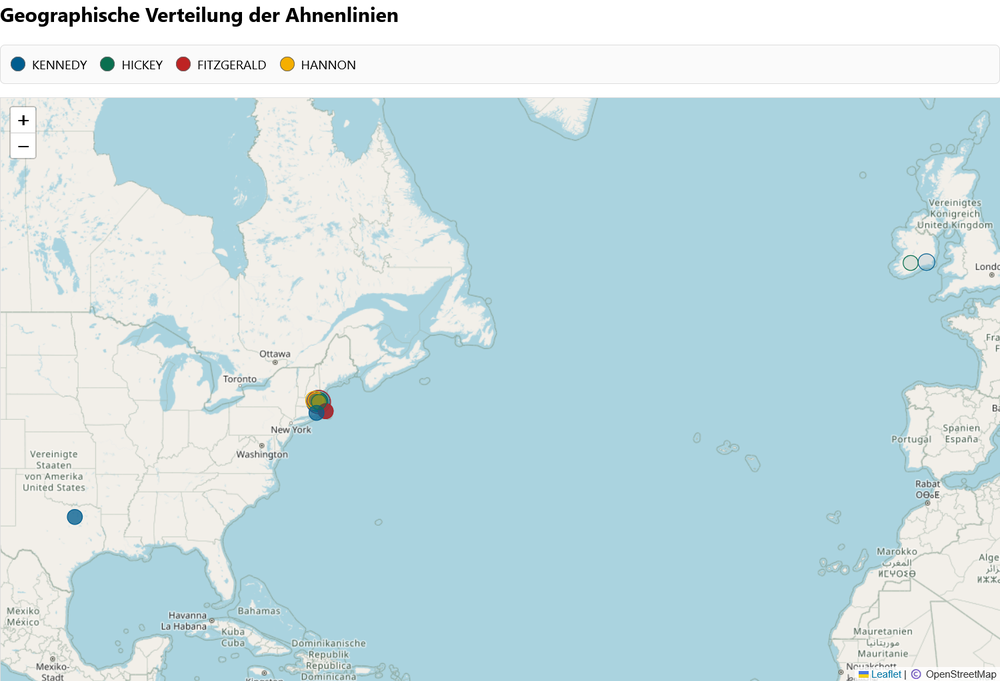
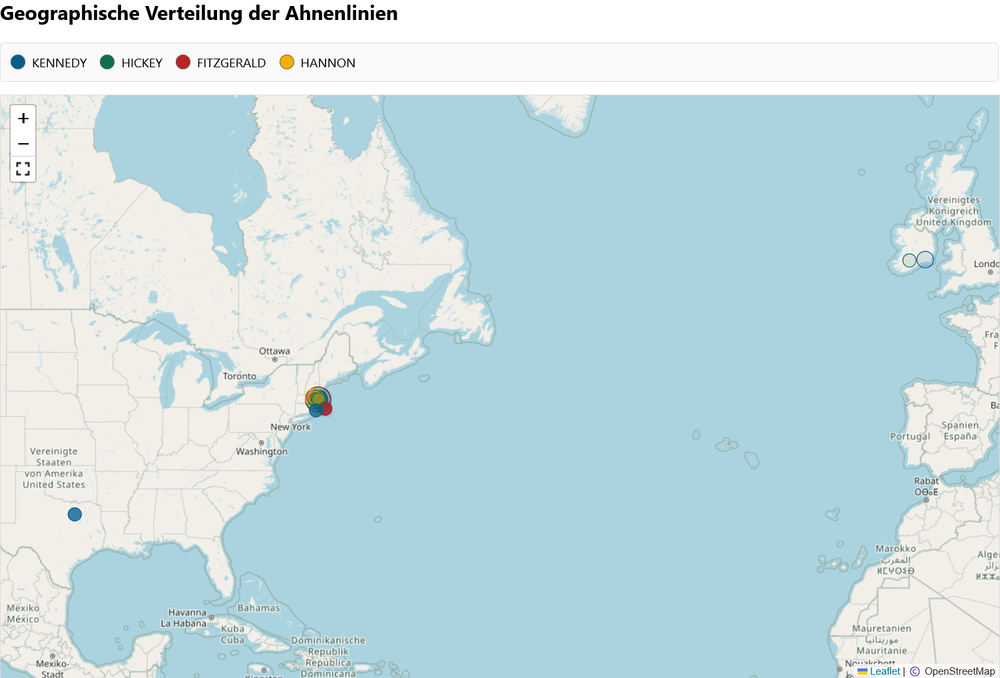
updated documentation.

diff --git a/AhnenblattPlugin/ReadmeAB.md b/AhnenblattPlugin/ReadmeAB.md
@@ -9,10 +9,10 @@ Im [Support Portal für Ahnenblatt](https://www.ahnenblattportal.de/viewtopic.ph
 
 ### Installation
 
-Die heruntergeladene Archivdatei mit der Plugin-Version muss - wie alle anderen Ahnenblatt-Plugins auch - entpackt werden und dann unter `%USERPROFILE%\Documents\Ahnenblatt\PlugIns` platziert werden. Die Ordnerstruktur sieht dann wie folgt aus:
+Die heruntergeladene Archivdatei mit der Plugin-Version muss - wie alle anderen Ahnenblatt-Plugins auch - entpackt werden und dann unter `%USERPROFILE%\Dokumente\Ahnenblatt\PlugIns` (z.B: `"C:\Benutzer\Max Mustermann\Dokumente\Ahnenblatt\PlugIns"`) platziert werden. Die Ordnerstruktur sieht dann wie folgt aus:
 
 ```
-Documents/
+Dokumente/
 ├─ Ahnenblatt/
 │  ├─ PlugIns/
 │  │  ├─ KekuleHtml/
@@ -28,6 +28,11 @@ Wenn alles an der richtigen Stelle abgelegt wurde, erscheint "KekuleHtml" in Ahn
 
 ![Plugin für Ahnenblatt](../img/ahnenblatt.png)
 
+### Koordinaten für Kartenfunktionalität
+
+Damit die [Kartenfunktionalität](../README.md#geographische-verteilung-der-ahnenlinien) funktioniert müssen Koordinaten erfasst worden sein. Dies funktioniert in Ahnenblatt über die Ortsverwaltung, die eine Suche nach dem Ortsnamen und die Übernahme der Koordinaten von einer Karte aus unterstützt:
+![Ortsverwaltung](../img/ahnenblatt_coordinates.png)
+
 ---
 
 ## 🇬🇧 Plugin for Ahnenblatt
@@ -41,7 +46,7 @@ There is a thread on the [Ahnenblatt Support Portal](https://www.ahnenblattporta
 
 ### Installation
 
-The downloaded archive file containing the plugin version must – like all other Ahnenblatt plugins – be extracted and then placed in `%USERPROFILE%\Documents\Ahnenblatt\PlugIns`. The folder structure will then look as follows:
+The downloaded archive file containing the plugin version must – like all other Ahnenblatt plugins – be extracted and then placed in `%USERPROFILE%\Documents\Ahnenblatt\PlugIns`. (e.g: `"C:\Users\Max Mustermann\Documents\Ahnenblatt\PlugIns"`) The folder structure will then look as follows:
 
 ```
 Documents/
@@ -58,3 +63,8 @@ Documents/
 If everything has been placed in the correct location, "KekuleHtml" will appear in Ahnenblatt under "Tools/KekuleHtml/Start" in the menu.
 
 ![Plugin for Ahnenblatt](../img/ahnenblatt.png)
+
+### Coordinates for map functionality
+
+For the [map functionality](../README.en.md#geographic-distribution-of-ancestral-lines) to work, coordinates must have been entered. In Ahnenblatt, this is done via the manage places feature, which allows you to search for a place name and import coordinates from a map:
+![Manage places](../img/ahnenblatt_coordinates.png)

diff --git a/README.en.md b/README.en.md
@@ -5,7 +5,7 @@
 
 [![Licence](https://img.shields.io/github/license/LondonRain/KekuleHtml)](licence.txt)
 [![.NET](https://img.shields.io/badge/.NET-10.0-blueviolet)](https://dotnet.microsoft.com/en-us/download/dotnet/10.0)
-![Windows](https://img.shields.io/badge/Windows-10%2B-steelblue)
+[![Windows](https://img.shields.io/badge/Windows-10%2B-steelblue)](https://www.microsoft.com/windows)
 [![Release](https://img.shields.io/github/v/release/LondonRain/KekuleHtml)](https://github.com/LondonRain/KekuleHtml/releases/latest)
 [![Last Commit](https://img.shields.io/github/last-commit/LondonRain/KekuleHtml)](https://github.com/LondonRain/KekuleHtml/commits/main)
 [![Downloads](https://img.shields.io/github/downloads/LondonRain/KekuleHtml/total)](https://github.com/LondonRain/KekuleHtml/releases/latest)

diff --git a/README.md b/README.md
@@ -5,7 +5,7 @@
 
 [![Licence](https://img.shields.io/github/license/LondonRain/KekuleHtml)](licence.txt)
 [![.NET](https://img.shields.io/badge/.NET-10.0-blueviolet)](https://dotnet.microsoft.com/en-us/download/dotnet/10.0)
-![Windows](https://img.shields.io/badge/Windows-10%2B-steelblue)
+[![Windows](https://img.shields.io/badge/Windows-10%2B-steelblue)](https://www.microsoft.com/windows)
 [![Release](https://img.shields.io/github/v/release/LondonRain/KekuleHtml)](https://github.com/LondonRain/KekuleHtml/releases/latest)
 [![Last Commit](https://img.shields.io/github/last-commit/LondonRain/KekuleHtml)](https://github.com/LondonRain/KekuleHtml/commits/main)
 [![Downloads](https://img.shields.io/github/downloads/LondonRain/KekuleHtml/total)](https://github.com/LondonRain/KekuleHtml/releases/latest)
